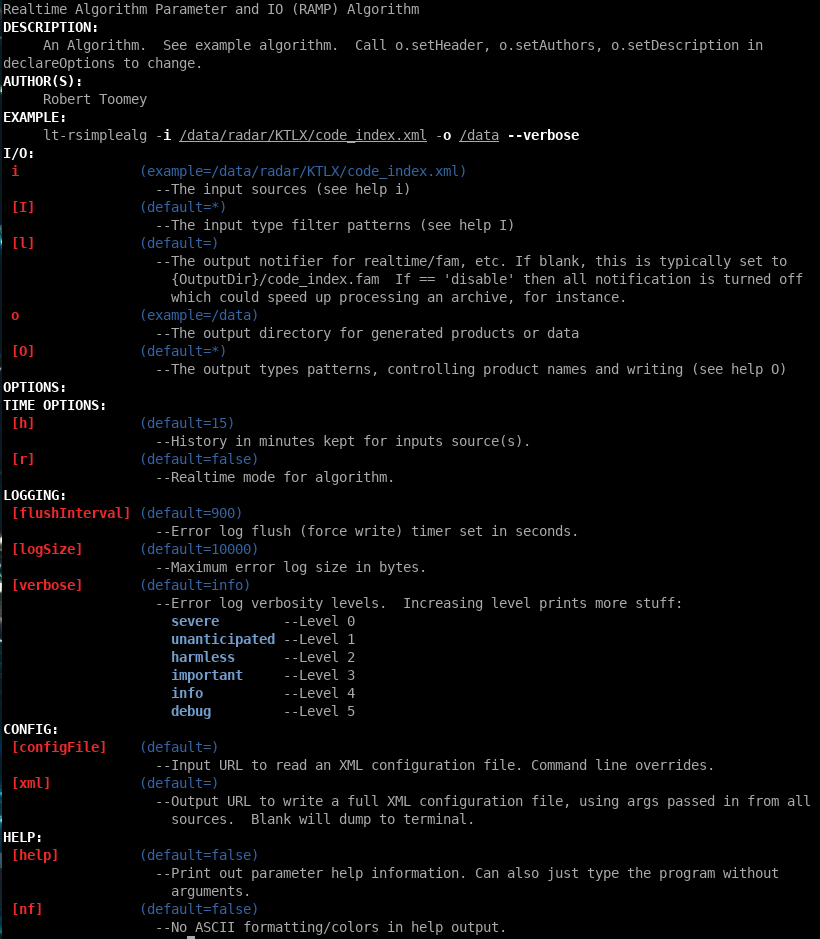
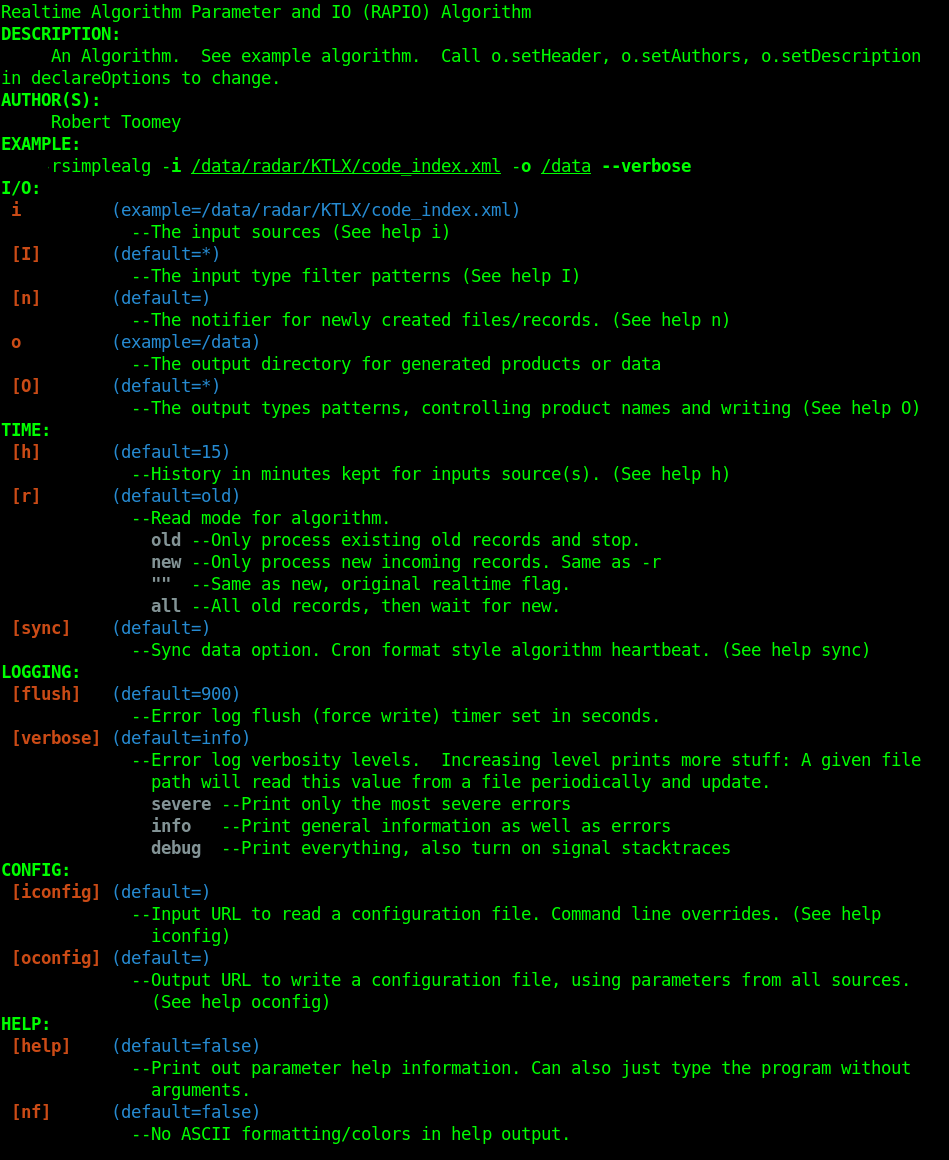
--more const exception issues, update readme/image, add URL unit test

Changed region(s): [[0.0, 0.0, 0.9756, 1.0], [0.7622, 0.5559, 0.9146, 0.5868]]

diff --git a/base/ionetcdf/rIONetcdf.cc b/base/ionetcdf/rIONetcdf.cc
@@ -159,7 +159,7 @@ IONetcdf::writeNetcdfDataType(std::shared_ptr<DataType> dt,
   // FIXME: should speed test this...
   try {
     NETCDF(nc_create(aURL.path.c_str(), NC_NETCDF4, &ncid));
-  } catch (NetcdfException& ex) {
+  } catch (const NetcdfException& ex) {
     nc_close(ncid);
     LogSevere("Netcdf create error: "
       << aURL.path << " " << ex.getNetcdfStr() << "\n");
@@ -186,7 +186,7 @@ IONetcdf::writeNetcdfDataType(std::shared_ptr<DataType> dt,
    * try {
    *  // Interesting, might be able to pre size it to speed it up
    *  NETCDF(nc_create_mem("testing", NC_NETCDF4, initialsize, &ncid));
-   * }catch(NetcdfException& ex){
+   * }catch(const NetcdfException& ex){
    *  nc_close_memio(ncid, &finalmem);
    *  LogSevere("Netcdf create error: " <<
    *            fileName_url.path << " " << ex.getNetcdfStr() << "\n");
@@ -250,7 +250,7 @@ IONetcdf::encodeDataType(std::shared_ptr<DataType> dt,
   // FIXME: should speed test this...
   try {
     NETCDF(nc_create(aURL.getPath().c_str(), NC_NETCDF4, &ncid));
-  } catch (NetcdfException& ex) {
+  } catch (const NetcdfException& ex) {
     nc_close(ncid);
     LogSevere("Netcdf create error: "
       << aURL.getPath() << " " << ex.getNetcdfStr() << "\n");

diff --git a/tests/rTestURL.cc b/tests/rTestURL.cc
@@ -1,0 +1,38 @@
+// Add this at top for any BOOST test
+#include <boost/test/unit_test.hpp>
+
+#include "rURL.h"
+
+using namespace rapio;
+
+BOOST_AUTO_TEST_SUITE(_URL_)
+
+BOOST_AUTO_TEST_CASE(_URL_FIELDS_)
+{
+  URL u = URL(
+    "https://www.mrms.noaa.com/data1/data2/ref=test_1?z=cool&ie=UTF8&qid=1430344305&sr=1-1&keywords=nozick#frag123");
+
+  BOOST_CHECK_EQUAL(u.getScheme(), "https");
+  BOOST_CHECK_EQUAL(u.getHost(), "www.mrms.noaa.com");
+  BOOST_CHECK_EQUAL(u.getPort(), 443); // ok default ports if missing, right?
+  BOOST_CHECK_EQUAL(u.getPath(), "/data1/data2/ref=test_1");
+  BOOST_CHECK_EQUAL(u.getFragment(), "frag123");
+
+  URL v = URL("http://bob:secret@www.mrms.noaa.com:8080/somepath.asp?test=123&size=2");
+
+  BOOST_CHECK_EQUAL(v.getScheme(), "http");
+  BOOST_CHECK_EQUAL(v.getUser(), "bob");
+  BOOST_CHECK_EQUAL(v.getPassword(), "secret");
+  BOOST_CHECK_EQUAL(v.getHost(), "www.mrms.noaa.com");
+  BOOST_CHECK_EQUAL(v.getPort(), 8080);
+  BOOST_CHECK_EQUAL(v.getPath(), "/somepath.asp");
+
+  // getBaseName()
+  // getDirName()
+  // getSuffix()
+  // getSuffixLC()
+
+  // BOOST_CHECK(t.getSecondsSinceEpoch() == 220);
+}
+
+BOOST_AUTO_TEST_SUITE_END();

diff --git a/base/rURL.h b/base/rURL.h
@@ -90,6 +90,13 @@ public:
     return pass;
   }
 
+  /** Return the fragment of URL, if any */
+  std::string
+  getFragment() const
+  {
+    return fragment;
+  }
+
   /** Return the host part of URL, if any */
   std::string
   getHost() const
@@ -201,6 +208,7 @@ public:
     path.resize(path.size() - getSuffix().size());
   }
 
+  /** Output a URL */
   friend std::ostream&
   operator << (std::ostream&,
     const rapio::URL&);
@@ -226,7 +234,7 @@ protected:
   /** Path to the file, including directory and basename. */
   std::string path;
 
-  /** Sub-part of the URL to skip to.  Currently unused by WDSSII. */
+  /** Sub-part of the URL to skip to. */
   std::string fragment;
 
   /** Arguments to be passed along when accessing the URL */

diff --git a/base/ionetcdf/rNetcdfDataGrid.cc b/base/ionetcdf/rNetcdfDataGrid.cc
@@ -224,7 +224,7 @@ NetcdfDataGrid::readDataGrid(const int ncid, std::shared_ptr<DataGrid> dataGridS
     // End generic read 2D?
 
     return (true);
-  } catch (NetcdfException& ex) {
+  } catch (const NetcdfException& ex) {
     LogSevere("Netcdf read error with data grid: " << ex.getNetcdfStr() << "\n");
     return (false);
   }
@@ -302,7 +302,7 @@ NetcdfDataGrid::write(int ncid, std::shared_ptr<DataType> dt,
       // Put attributes for this var...
       IONetcdf::setAttributes(ncid, varid, l->getAttributes());
     }
-  } catch (NetcdfException& ex) {
+  } catch (const NetcdfException& ex) {
     LogSevere("Netcdf write error with DataGrid: " << ex.getNetcdfStr() << "\n");
     return (false);
   }

diff --git a/base/ionetcdf/rNetcdfBinaryTable.cc b/base/ionetcdf/rNetcdfBinaryTable.cc
@@ -257,7 +257,7 @@ NetcdfBinaryTable::write(int ncid, BinaryTable& binaryTable,
     // float RANGE_FOLDED( Constants::RangeFolded );
     NETCDF(IONetcdf::addAtt(ncid, "MissingData", missing));
     NETCDF(IONetcdf::addAtt(ncid, "RangeFolded", rangeFolded));
-  } catch (NetcdfException& ex) {
+  } catch (const NetcdfException& ex) {
     LogSevere("Netcdf write error with BinaryTable: " << ex.getNetcdfStr()
                                                       << "\n");
     return (false);

diff --git a/base/ionetcdf/rIONetcdf.h b/base/ionetcdf/rIONetcdf.h
@@ -32,19 +32,19 @@ public:
   virtual ~NetcdfException() throw() { }
 
   int
-  getNetcdfVal()
+  getNetcdfVal() const
   {
     return (retval);
   }
 
   std::string
-  getNetcdfCommand()
+  getNetcdfCommand() const
   {
     return (command);
   }
 
   std::string
-  getNetcdfStr()
+  getNetcdfStr() const
   {
     return (std::string(nc_strerror(retval)) + " " + command);
   }

diff --git a/base/rRAPIOOptions.cc b/base/rRAPIOOptions.cc
@@ -363,7 +363,6 @@ RAPIOOptions::dumpArgs(std::vector<Option>& options,
           ColorTerm::wrapWithIndent(c1 + 4, c1 + 4 + max + 3, out);
         }
       }
-      bool advancedHelp = true; // TESTING
       if (advancedHelp && (o.advancedHelp != "")) {
         std::vector<std::string> lines;
         Strings::splitWithoutEnds(o.advancedHelp, '\n', &lines);

diff --git a/base/rURL.cc b/base/rURL.cc
@@ -9,6 +9,8 @@
 #include <cstdio>   // snprintf()
 #include <libgen.h> // dirname
 
+#include "rProcessTimer.h"
+
 using namespace rapio;
 
 namespace {

diff --git a/README.md b/README.md
@@ -1,39 +1,41 @@
-# RAPIO
+# RAPIO -- Real-time Algorithm Parameter and IO
 
-Real-time Algorithm Parameter and IO
+RAPIO is a data input and output system using a C++ and Python interface (Linux) designed for making it as simple as possible to quickly implement a real-time algorithm.  A real-time algorithm is something expecting data at regular intervals from some source(s), after which it processes this data in some way and then outputs more data, some optionally. The focus of RAPIO is on automating and hiding the back core of reading, writing, notification and parameters for these algorithms.  We also implement and keep consistent common parameters that are shared among any algorithm.
 
-RAPIO is a data input and output system in C++ (Linux) designed for making it as simple as possible to quickly implement a real-time algorithm.  A real-time algorithm is something expecting data at regular intervals from some source(s), after which it processes this data in some way and then outputs more data, some optionally. The focus of RAPIO is on automating and hiding the back core of reading, writing, notification and parameters for these algorithms.  We also implement and keep consistent common parameters that are shared among any algorithm.
+Some presentations and tutorials when time permits. The first video sound is pretty bad at moment, I had to get a new microphone.
+[RAPIO YouTube Presentation/Update Playlist](https://www.youtube.com/playlist?list=PLtFp1JgyWc4kj5A-I12LM0gCo40JorfPe)
 
-At the [National Severe Storms Laboratory](https://www.nssl.noaa.gov) we collect big data from hundreds of radars and process this data with proprietary meteorology algorithms.  Our algorithm collection comes from various systems, such as the [Warning Decision Support System --Integrated Information](http://www.wdssii.org), as well as other groups within the lab.  These systems run important algorithms such as tornado prediction, clustering, and weighted merging of data. 
+## WDSSII/MRMS
+At the [National Severe Storms Laboratory](https://www.nssl.noaa.gov) big data is collected from hundreds of radars and processed with proprietary meteorology and hydrology algorithms.  Algorithm collection comes from various systems, such as the [Warning Decision Support System --Integrated Information](http://www.wdssii.org), as well as other groups within the lab.  These systems run important algorithms such as tornado prediction, clustering, and weighted merging of data. Operational output of weather algorithms go into the [MRMS System](https://www.nssl.noaa.gov/projects/mrms/).  RAPIO in this use case allows students and other contributers to MRMS to create new algorithms more easily that can then be integrated/licensed into MRMS operations if desired.
+## RAPIO algorithms differences
+* No SmartPtr classes.  You have to use at least C++11 shared_ptr, unique_ptr and STL
+* Differences/enhancements in also all standard parameters.
+* Many more abilities in how to run/execute.  Most of these features are built into the help output of the algorithm but will also get more officially documented as the software matures.
 
-* Parameters for algorithms
-* Input of data with filters
-* Output of data with filters
-* Data monitoring (Linux FAM, IO polling, Web polling, etc.) 
-* Data notification (.fml MRMS/WDSSII files, AWS, etc. )
-* Built in support for [MRMS/WDSSII data sets and indexes](https://www.nssl.noaa.gov/projects/mrms/)
+## Features
+* Parameter handling for algorithms, command line and external files.
+* Input of various data streams with filtering abilities (WDSSII indexes, netcdf, grib2, etc.).
+* Output of data with filtering abilities.
+* Watchers for data ingest monitoring (Linux FAM, IO polling, Web polling, etc.).
+* Notifiers for data output notification (.fml MRMS/WDSSII files, external EXE, AWS, etc.).
 
-## Current devel rpm requirements (probably more, we have a lot of RPMS installed in Centos/Redhat)
-* udunits-2.2.24 (Unit conversion)
-* curl 7.55  (Web ingest)
-* netcdf-c-4.6.1 and hdf5  (Reading MRMS/WDSSII data formats)
-* proj-4.9.3 (Data projection) --Actually not 'yet' but I've got code that will use it
-* bzip2
-* Most algorithms link with -lrapio -lcurl -lnetcdf -ludunits2 -lbz2
-* uncrustify (For formatting code if you are contributing to core code)
+## Some third party requirements.
+#### Core dependencies
+* [BOOST C++](https://www.boost.org) Lots of stuff here, we tend to wrap these libraries to simplify algorithm development and to allow for possibility of swap out.
+* [cURL](https://curl.haxx.se) (as web ingest (though maybe BOOST asio later)
+* [UCAR udunits](https://www.unidata.ucar.edu/software/udunits) 
 
-## Main differences to using parts of WDSSII for data
-* No SmartPtr classes.  You have to use c++11 shared_ptr, unique_ptr and STL
-* Differences in the archive vs. real-time modes of WDSSII to be more flexible.
+#### Advanced data ingest libraries
+* [G2CLib](https://www.cpc.ncep.noaa.gov/products/wesley/wgrib2/g2clib.html) Grib2 ingest
+* [HDF5](https://support.hdfgroup.org/HDF5/) HDF5 data ingest 
+* [Netcdf](https://www.unidata.ucar.edu/software/netcdf/) Netcdf data ingest 
+
+#### Projection libraries
+* [PROJ](https://proj.org/) Projection abilities for data
 
 ## API Documentation
-* I might put a Travis CI autogenerated doxygen on github eventually, but at the moment you can generate locally by running "doxygen rapio.dox" in the project directory.
-* The rexample folder is meant as a general API example and will be updated as RAPIO is.  The rexample shows a simple algorithm that echos its input to output. Obviously in a real life situation you would do something to the data first and output different stuff, either modifying in place or creating a clone.
-
-## Current Status/Features
-* Currently I'm speed testing the beta, gaining 30% CPU speed and 25% reduction in memory usage when used as back system for a WDSSII algorithm.
-* Adding abilities, improving speed, fixing bugs.
-* Currently designed to be built as a 3rd party library within an MRMS/WDSSII build, but could be built standalone if all requirements met.
+* Generate locally by running "doxygen rapio.dox" in the project directory.
+* The rexample folder is meant as a general API example and will be updated as RAPIO is.
 
 ## Images
 * Image of default example RAPIO algorithm with parameter formatting
